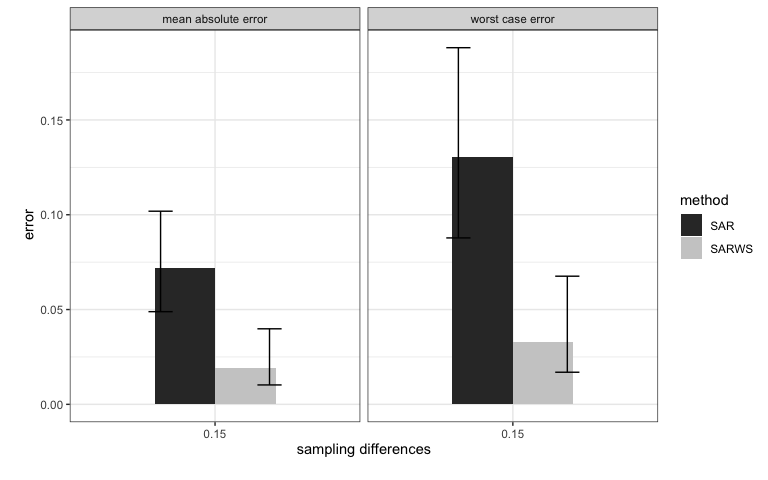
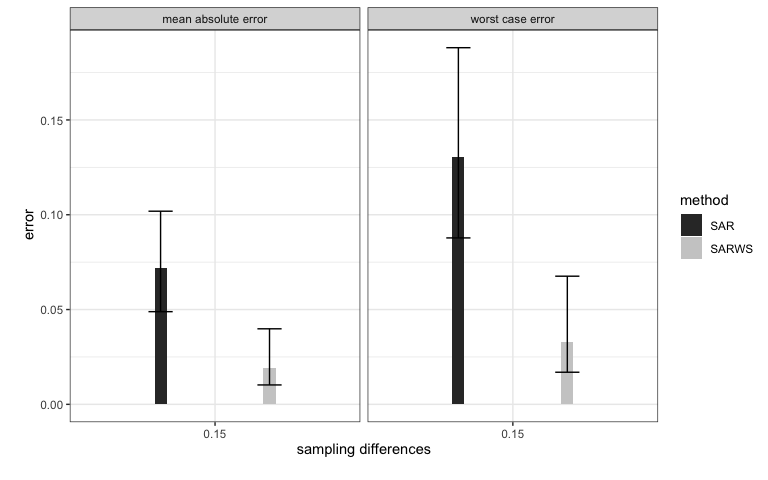
minor fix

Changed region(s): [[0.5938, 0.3125, 0.75, 0.8438], [0.2188, 0.5312, 0.3438, 0.8438]]

diff --git a/phyloflows/vignettes/06_test_sampling_adjustments.md b/phyloflows/vignettes/06_test_sampling_adjustments.md
@@ -127,7 +127,7 @@ adjustment for sampling heterogeneity.
 
     de$ERROR_TYPE <- factor(de$ERROR_TYPE,levels = c('MAE', 'WCE'), labels = c('mean absolute error','worst case error'))
     ggplot(de, aes(x=as.factor(SAMP_DIFF), y=M, fill=METHOD)) +
-       geom_bar(stat="identity",position=position_dodge(),width = 0.5)+
+       geom_bar(stat="identity",position=position_dodge(.9),width = 0.1)+
        geom_errorbar(aes(ymin=CL, ymax=CU),width=.2,position=position_dodge(.9))+
        scale_fill_grey(start = 0.2, end = 0.8)+
        theme_bw() +
